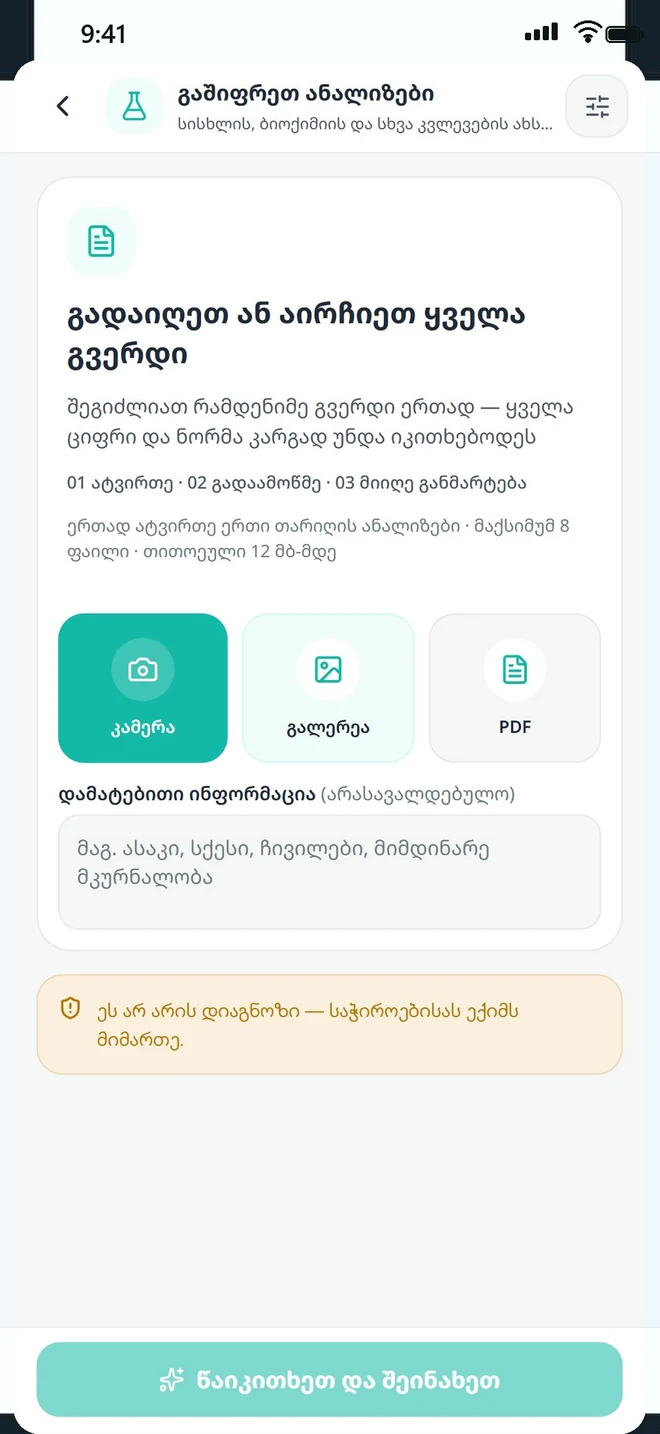
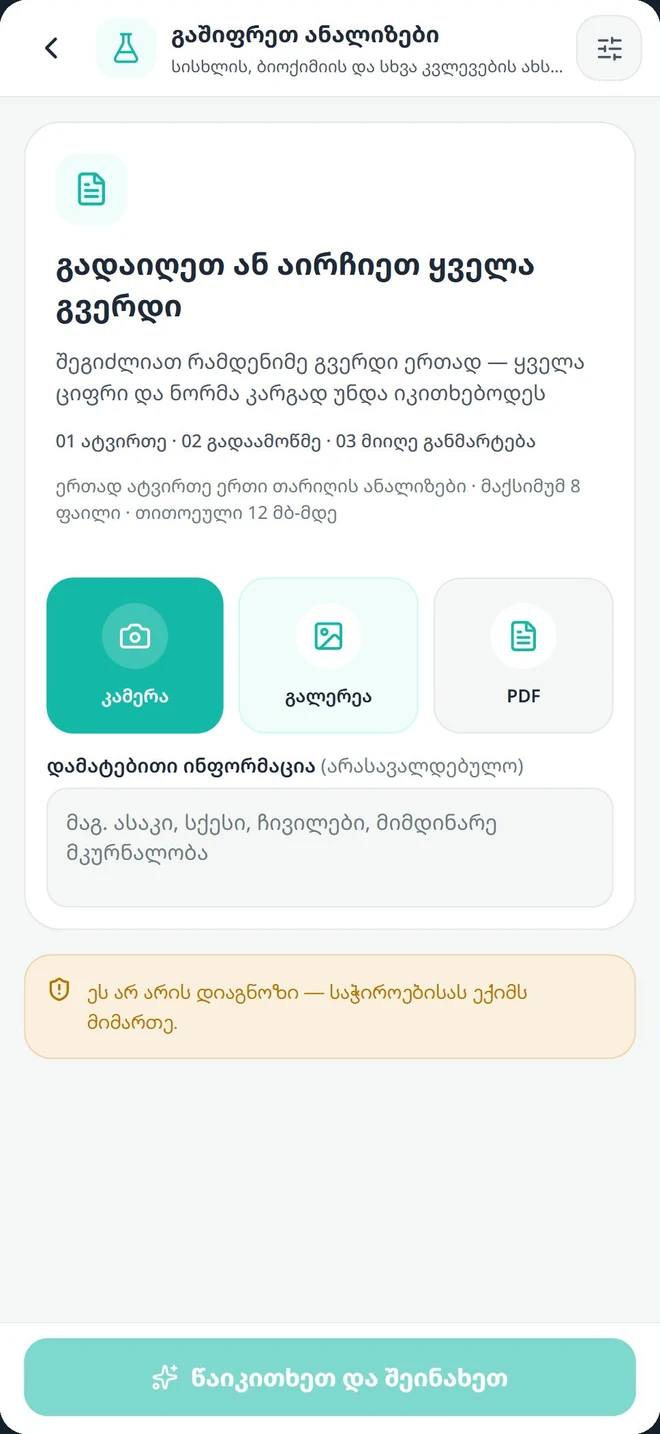
fix(landing): drop the island from the phone mockup, restore plain screens
Owner preference: no Dynamic Island on the frame and the hero screens
exactly as captured, without the added status-bar band.

diff --git a/server/public/index.html b/server/public/index.html
@@ -80,7 +80,7 @@
             <div class="hero-orbit" aria-hidden="true"><i></i><i></i></div>
             <figure class="iphone" id="hero-phone">
               <img class="iphone-chrome" src="/iphone-16-pro-max.svg" alt="" width="470" height="956" />
-              <div class="iphone-bezel"><div class="phone-screen"><img data-key="home" src="/screens/v2/home.webp?v=2" alt="მედიქარდის მთავარი ეკრანი" class="is-on" width="660" height="1434" /><img data-key="hydration" src="/screens/v2/hydration.webp?v=2" alt="" width="660" height="1434" /><img data-key="run" src="/screens/v2/run.webp?v=2" alt="" width="660" height="1434" /><img data-key="symptoms" src="/screens/v2/symptoms.webp?v=2" alt="" width="660" height="1434" /><img data-key="analysis" src="/screens/v2/analysis.webp?v=2" alt="" width="660" height="1434" /><img data-key="cycle" src="/screens/v2/cycle.webp?v=2" alt="" width="660" height="1434" /><img data-key="log" src="/screens/v2/log.webp?v=2" alt="" width="660" height="1434" /></div></div>
+              <div class="iphone-bezel"><div class="phone-screen"><img data-key="home" src="/screens/v2/home.webp?v=3" alt="მედიქარდის მთავარი ეკრანი" class="is-on" width="660" height="1434" /><img data-key="hydration" src="/screens/v2/hydration.webp?v=3" alt="" width="660" height="1434" /><img data-key="run" src="/screens/v2/run.webp?v=3" alt="" width="660" height="1434" /><img data-key="symptoms" src="/screens/v2/symptoms.webp?v=3" alt="" width="660" height="1434" /><img data-key="analysis" src="/screens/v2/analysis.webp?v=3" alt="" width="660" height="1434" /><img data-key="cycle" src="/screens/v2/cycle.webp?v=3" alt="" width="660" height="1434" /><img data-key="log" src="/screens/v2/log.webp?v=3" alt="" width="660" height="1434" /></div></div>
             </figure>
             <p class="hero-aside">შენი სურათი.<br />შენი კონტროლი</p>
           </div>
